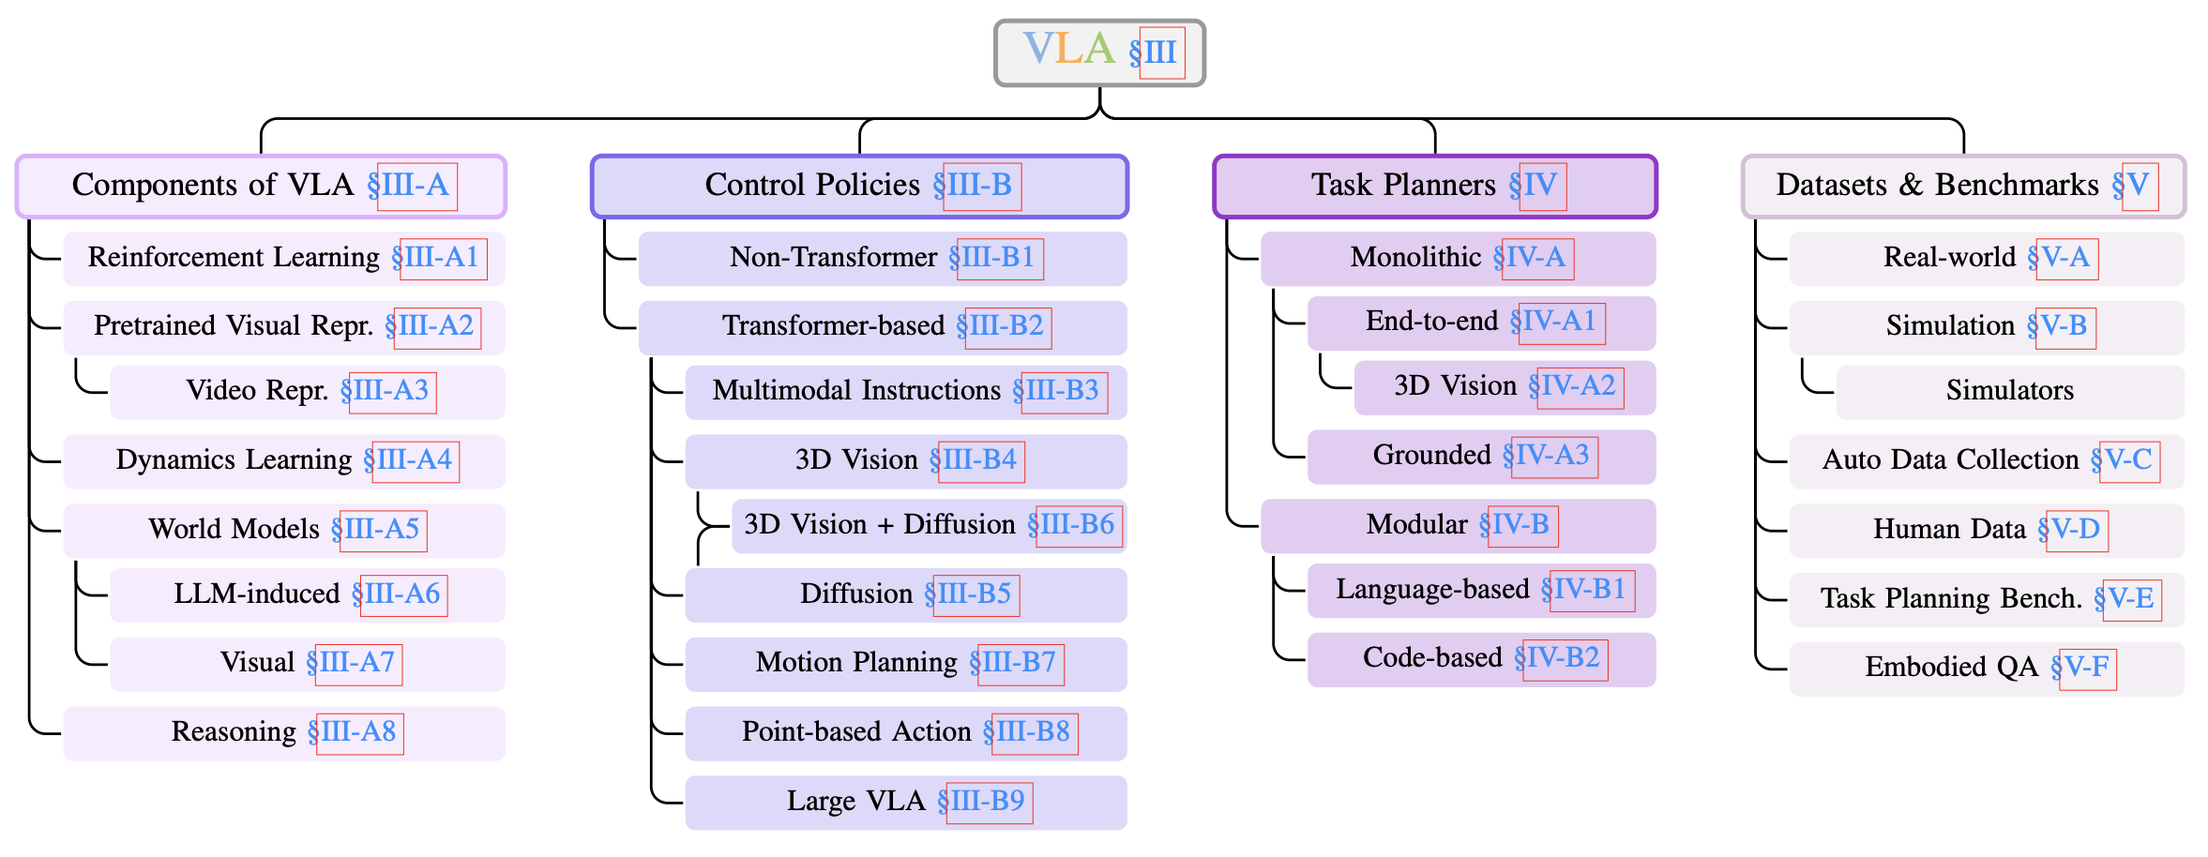
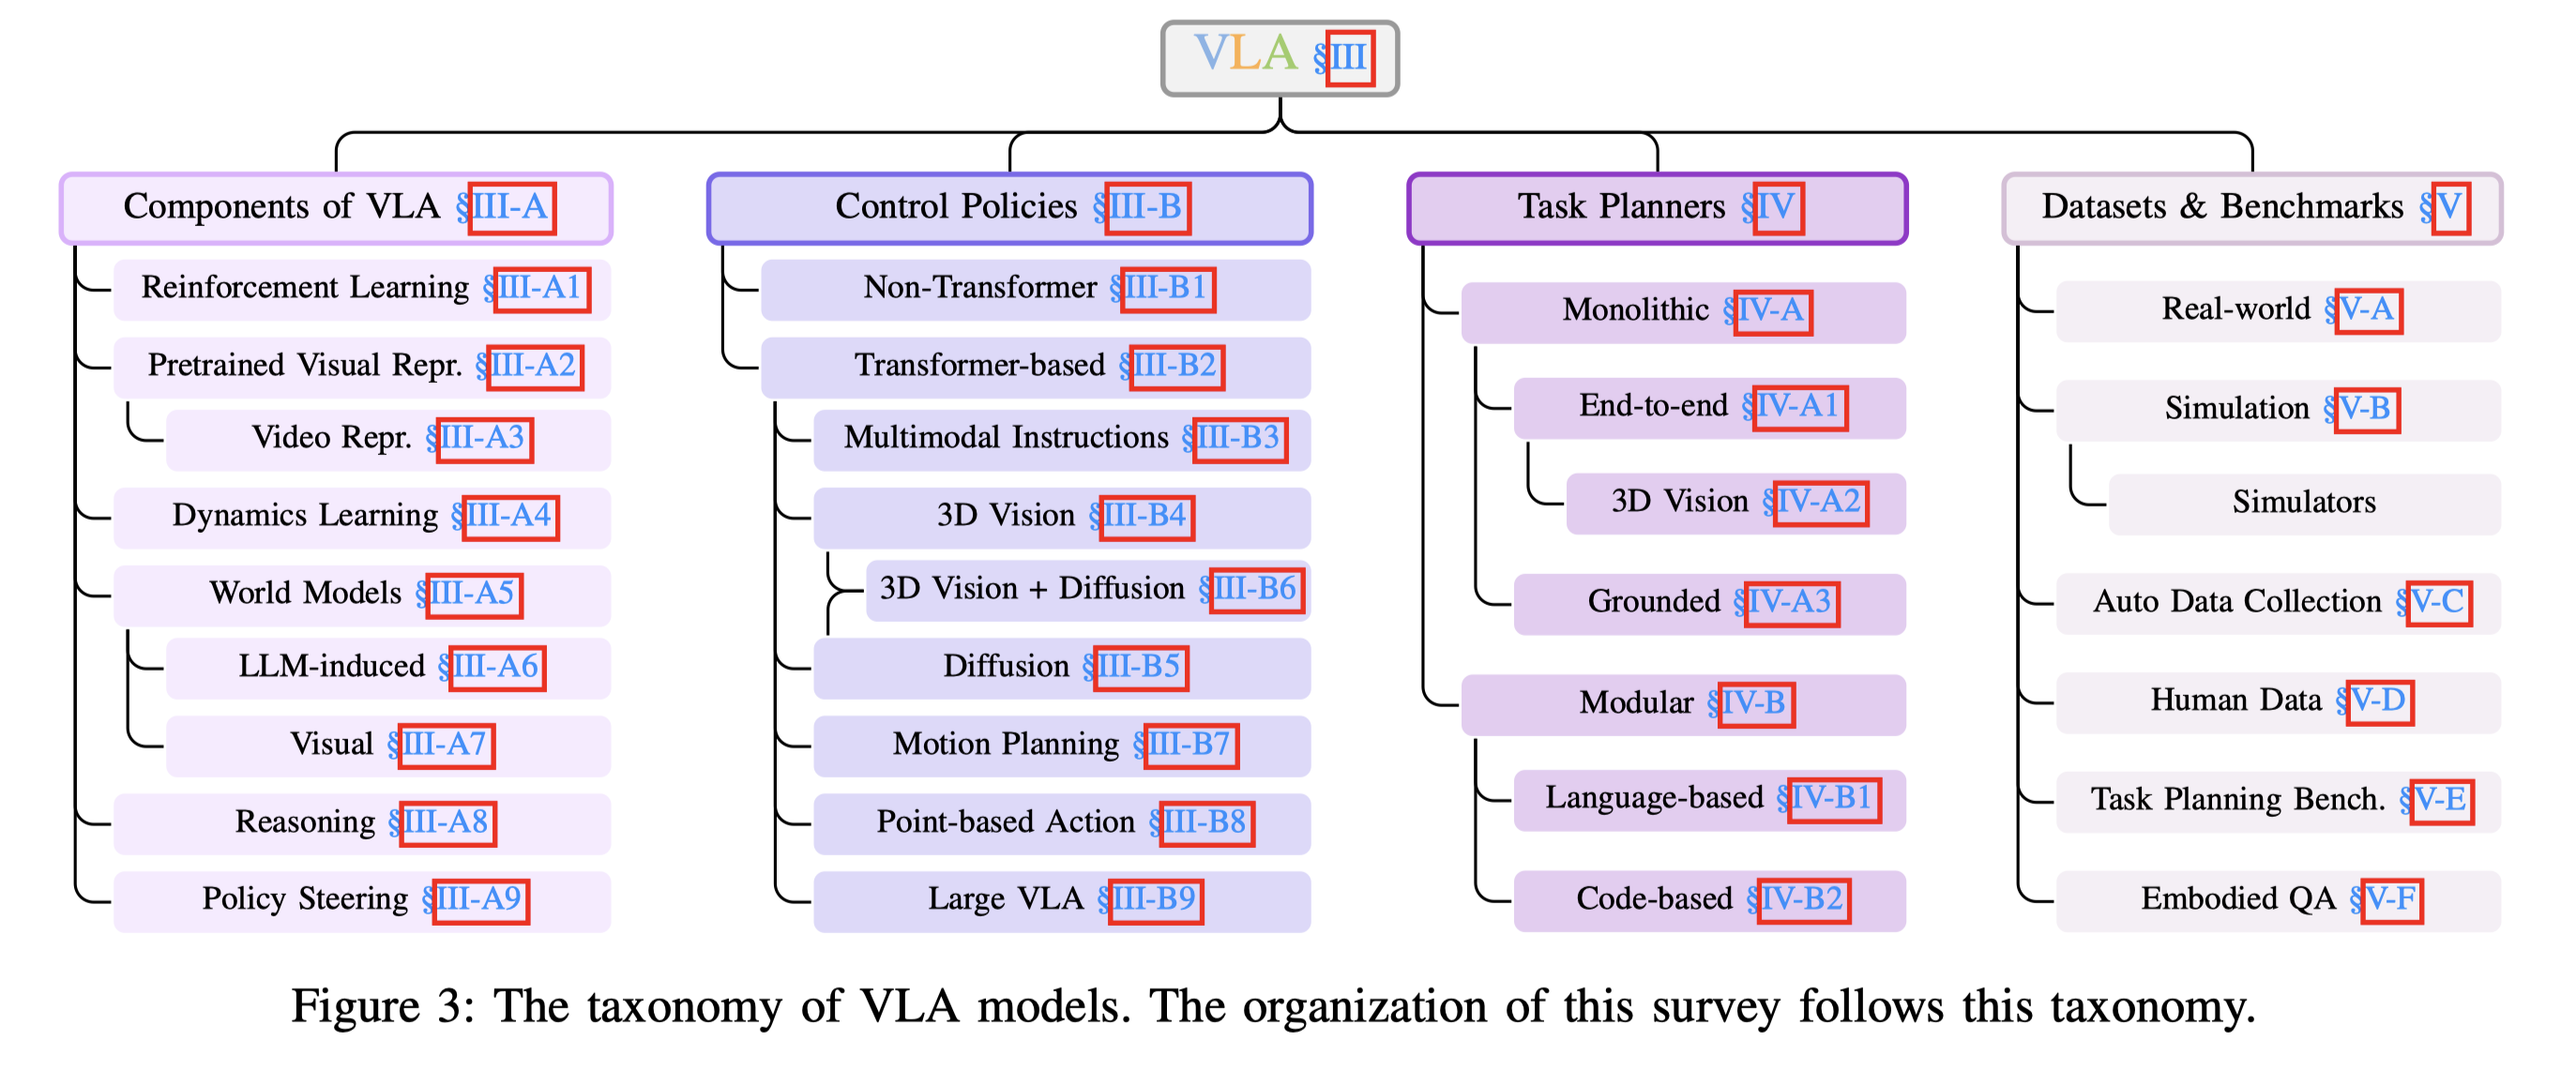
Add policy steering

Changed region(s): [[0.0, 0.0, 0.9924, 0.9803]]

diff --git a/README.md b/README.md
@@ -79,6 +79,7 @@ A number of other survey papers on VLA models, embodied AI, robotics, etc. are a
     - [LLM-induced World Models](#llm-induced-world-models)
     - [Visual World Models](#visual-world-models)
   - [Reasoning](#reasoning)
+  - [Policy Steering](#policy-steering)
 - [Low-level Control Policies](#low-level-control-policies)
   - [Non-Transformer Control Policies](#non-transformer-control-policies)
   - [Transformer-based Control Policies](#transformer-based-control-policies)
@@ -244,6 +245,11 @@ A number of other survey papers on VLA models, embodied AI, robotics, etc. are a
 * **ECoT**: "Robotic Control via Embodied Chain-of-Thought Reasoning", *arXiv, Jul 2024* [[Paper](http://arxiv.org/abs/2407.08693v2)]
 <!-- v5-TODO -->
 * **CoT-VLA**: "CoT-VLA: Visual Chain-of-Thought Reasoning for Vision-Language-Action Models", *CVPR, 2025* [[Paper](https://arxiv.org/abs/2503.22020)][[Website](https://cot-vla.github.io)]
+
+
+### Policy Steering
+* **V-GPS**: "Steering Your Generalists: Improving Robotic Foundation Models via Value Guidance", *CoRL, 2024* [[Paper](https://arxiv.org/abs/2410.13816)][[Website](https://nakamotoo.github.io/V-GPS)][[Code](https://github.com/nakamotoo/V-GPS)]
+* **RoboMonkey**: "RoboMonkey: Scaling Test-Time Sampling and Verification for Vision-Language-Action Models", *arXiv, Oct 2024* [[Paper](https://arxiv.org/abs/2506.17811)][[Website](https://robomonkey-vla.github.io)][[Code](https://github.com/robomonkey-vla/RoboMonkey)]
 
 
 ## Low-level Control Policies
